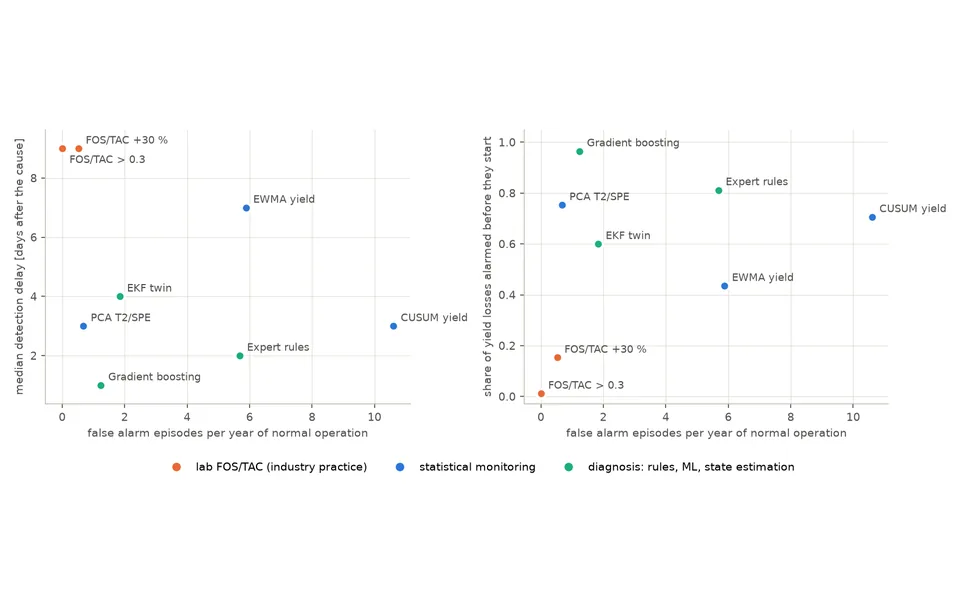
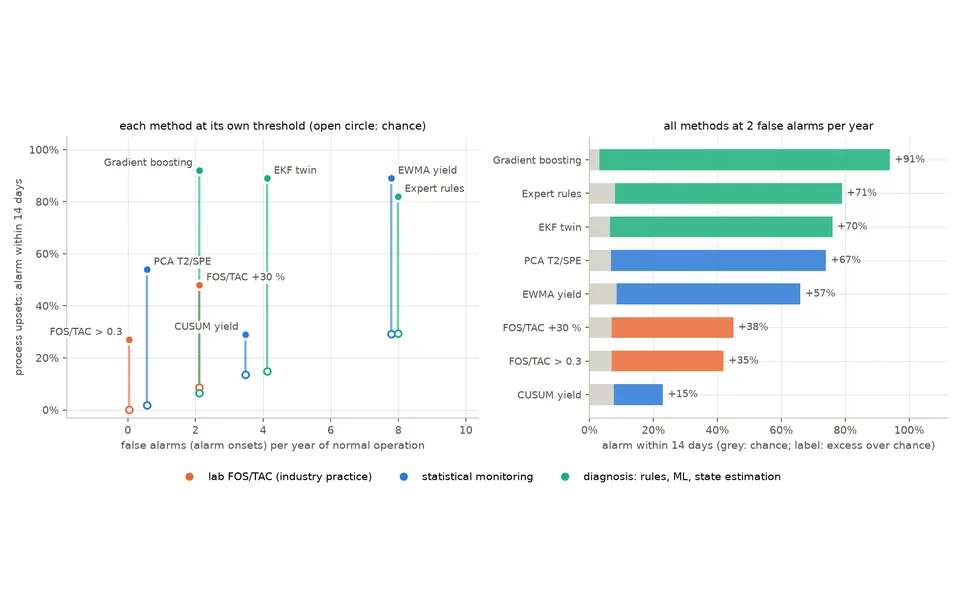
Update biogas twin card, add correction

diff --git a/corrections.html b/corrections.html
@@ -134,9 +134,9 @@ td + td { white-space: nowrap; }
     <h1>Corrections</h1>
     <p class="dek">Every project here is re-read from time to time by an independent reviewer who gets the code and the data, not the conclusions. When a headline number or a conclusion does not hold, it is corrected in the repository and listed below: what was claimed, what is claimed now and why. Results that only reproduced are not listed.</p>
   </header>
-  <section class="corr"><h2><a href="https://github.com/kwwaleszczynski-del/wind-wake-aware-verification">wind-wake-aware-verification</a><span class="when">16 Nov 2026</span></h2><dl><dt>Was</dt><dd>The method finds a derating to 95 % of rated power in 94 % of cases where the neighbour index finds 4 %, and a 3 % anemometer bias in 83 %; without the wake model detection drops.</dd><dt>Now</dt><dd>With a full-load chart for every method and thresholds at one false-alarm rate, the turbine&#x27;s own power curve is the better full-load detector (derating 100 % in 6 days against 96 % in 31 days). The method&#x27;s distinct result is the anemometer bias in either direction (90 % against a chance of 12 %). The wake model&#x27;s gain is confined to partial load.</dd><dt>Why</dt><dd>The baselines had no full-load chart, so they could not see a derating by construction, and thresholds set at the calibration-year maximum gave the methods different false-alarm rates; the gap without the wake model was a threshold artefact.</dd></dl></section><section class="corr"><h2><a href="https://github.com/kwwaleszczynski-del/pv-anomaly-autoencoder">pv-anomaly-autoencoder</a><span class="when">16 Nov 2026</span></h2><dl><dt>Was</dt><dd>The autoencoder detects 17 of 20 injected fault events.</dd><dt>Now</dt><dd>15 of the 17 events that change the output at all, when at least half of an event&#x27;s affected daylight steps must raise an alarm (1.6 by chance); the baselines detect 5-7. Over five other seeds: 37 of 81 against 4.7 by chance. Average precision 0.91 against 0.60-0.77.</dd><dt>Why</dt><dd>One alarmed step anywhere in an event counted as a detection, which alarms shifted in time by whole days reach for 6.5-9.7 events; three injected events never affect the output, and the thresholds had different false-positive rates on the test period.</dd></dl></section><section class="corr"><h2><a href="https://github.com/kwwaleszczynski-del/wind-bayes-twin">wind-bayes-twin</a><span class="when">16 Nov 2026</span></h2><dl><dt>Was</dt><dd>The twin&#x27;s first alarm names the right cause in 95 % of detections against 72 % for the charts; nothing was tuned on the test years.</dd><dt>Now</dt><dd>Of all 624 faults the twin names 84 % and the charts 70 %. The advantage is confined to telling an efficiency loss from a derating: without the efficiency-loss scenarios the two are level (91 % against 86 %, and 92 % against 91 % at matched false-alarm rates). Detection and the false-alarm rate (0.50 against 2.08 per turbine-year) stand. All validation numbers are upper bounds.</dd><dt>Why</dt><dd>The charts&#x27; full-load chart was mapped to derating, so one mapping produced most of the gap. Several design choices were revised after looking at 2019-2020 results, and the injected faults are near-exact shifts of the statistics the twin models.</dd></dl></section><section class="corr"><h2><a href="https://github.com/kwwaleszczynski-del/wind-thermal-nbm">wind-thermal-nbm</a><span class="when">16 Nov 2026</span></h2><dl><dt>Was</dt><dd>The RC parameters give a health trend the black box does not: the rear generator bearing&#x27;s rise at rated power grows from 16.5 to 25.4 K on one turbine. On the CARE benchmark the temperature models are precise but miss faults no thermometer can see.</dd><dt>Now</dt><dd>The trend was a fit artefact: with the time constant, intercept and cooling mixture held at the first year&#x27;s fit, the yearly rise follows the measured rise at rated power (median gap 0.1-0.6 K). On CARE the models detect nothing beyond chance (as many fault datasets flagged as with circularly shifted alarms). Detection of a +2 °C drift now has intervals: 76 % [71-81] for the RC model to 91 % [87-94] for gradient boosting with the fleet median.</dd><dt>Why</dt><dd>Refitting every parameter each year let the temperature rise trade off against the time constant (0.9-1.9 h, then 3.2 h in 2021). The CARE detections had not been compared with a placebo, and the alarm design was settled with the test years in view.</dd></dl></section><section class="corr"><h2><a href="https://github.com/kwwaleszczynski-del/bess-ops-warranty">bess-ops-warranty</a><span class="when">16 Nov 2026</span></h2><dl><dt>Was</dt><dd>Median round-trip efficiency 0.82 across 55 NEM batteries; a window whose one-way efficiency could not be determined used a constant and passed.</dd><dt>Now</dt><dd>0.825 for the 52 batteries with an RTE; three have no RTE for the year and are listed as no data. A window that cannot be assessed is reported with its reason and counted next to the damages, not as a window without damages. One validation series moved from 0.736 to 0.723.</dd><dt>Why</dt><dd>The yearly RTE had counted the energy of months whose change of stored energy was unknown and taken that change as zero, and an undetermined efficiency had been replaced by 0.95.</dd></dl></section><section class="corr"><h2><a href="https://github.com/kwwaleszczynski-del/pv-outage-classifier">pv-outage-classifier</a><span class="when">16 Nov 2026</span></h2><dl><dt>Was</dt><dd>The hybrid detector has the highest recall (0.86) and the expected model the best F1 (0.80); all real outages on the PVDAQ roofs are found; fleet availability 98.3-99.0 %.</dd><dt>Now</dt><dd>Much of the recall is coincidence: the hybrid&#x27;s alarms shifted in time by whole days still find 40 % of the events. By excess recall Hampel, the isolation forest, the expected model and the hybrid are level (0.46-0.52), and the order changes under a stricter rule. Soiling is barely detected (8 % of episodes half covered). Availability in 2016 is 98.3 %, 95.8 % or 91.4 % depending on how gaps in the inverter data are counted.</dd><dt>Why</dt><dd>One alarm anywhere inside an event that lasts weeks counted as a detection, and the real outages are defined by the same zero-output rule the threshold detector uses. Outages that continued as data gaps were taken out of the availability denominator. The site set-up is now tuned on 2016 and reported on 2017-2018.</dd></dl></section><section class="corr"><h2><a href="https://github.com/kwwaleszczynski-del/pv-thermal-check">pv-thermal-check</a><span class="when">16 Nov 2026</span></h2><dl><dt>Was</dt><dd>The cells run 19 K above the back-of-module sensor, the signature of a loose sensor; injected sensor faults are found on all 40 start dates; corrected PR leaves a winter dip explained by shading and an autumn decline by soiling.</dd><dt>Now</dt><dd>The gap is 15-20 K depending on the calibration and rests on one 12-day open-circuit window; a loose sensor is one explanation among others. With no fault injected, 20 % of the start dates already count as detected, so detection is reported on the 32 clean start dates. The residual PR pattern depends on the irradiance scaling and is not attributed to a cause. Annual temperature loss 10.9 % (was 10.5-10.8 %), Poland 3.5-4.5 % (was 3.2-4.2 %).</dd><dt>Why</dt><dd>The clean record has an alarm of its own inside the detection horizon of 8 start dates; the seasonal residual changes sign between one irradiance scale factor and month-specific factors; and the cell model had used the STC efficiency instead of the measured operating efficiency.</dd></dl></section><section class="corr"><h2><a href="https://github.com/kwwaleszczynski-del/wind-om-reliability">wind-om-reliability</a><span class="when">15 Nov 2026</span></h2><dl><dt>Was</dt><dd>Crow-AMSAA separates an improving fleet (Kelmarsh, beta 0.82) from a deteriorating one (Penmanshiel, beta 1.12); Hill of Towie improves to 4-5 failures per turbine-year.</dd><dt>Now</dt><dd>Kelmarsh still improves (beta 0.81, 0.76-0.91). Penmanshiel shows no clear trend (0.95, 0.89-1.01). The Hill of Towie trend is not assessed.</dd><dt>Why</dt><dd>The Penmanshiel figure came from repeating alarms on three turbines and an interval that assumed independent events; the trend is now fitted on repeat chains with a turbine bootstrap. The Hill of Towie code dictionary was built from one year, so other years were not comparable. Failure counts are now published with their sensitivity to the counting rule (Kelmarsh 3.6-8.2, Penmanshiel 10.8-19.3 per turbine-year).</dd></dl></section><section class="corr"><h2><a href="https://github.com/kwwaleszczynski-del/pl-bess-paper-trading">pl-bess-paper-trading</a><span class="when">15 Nov 2026</span></h2><dl><dt>Was</dt><dd>A battery that trades on paper every day; scheduled runs start 30-60 minutes late and one day has no plan.</dd><dt>Now</dt><dd>Of the first 20 live days 6 have a plan and 14 do not; the model earned 11.7 % of perfect foresight over all days and 52 % on the days it traded. The live record is too short for conclusions.</dd><dt>Why</dt><dd>GitHub started the scheduled runs 6-10 hours late, after the market gate, so most mornings made no plan; the plans that exist were started by an external trigger. The ledger itself was checked and is append-only: no plan was made after prices were known.</dd></dl></section><section class="corr"><h2><a href="https://github.com/kwwaleszczynski-del/pl-capture-price">pl-capture-price</a><span class="when">15 Nov 2026</span></h2><dl><dt>Was</dt><dd>Every 10 pp of PV share costs PV about 0.20 of value factor; a PV build-out scenario of 0.58 (+20 %) and 0.49 (+50 %), backed by a hindcast.</dd><dt>Now</dt><dd>The within-month slope is -1.69 with a standard error of 1.12, not significant; the scenario gives 0.59 (0.52-0.66) and 0.51 (0.35-0.68). No simple model beats repeating last year&#x27;s value (MAE 0.080 against 0.081). RCE is described as PSE&#x27;s reference price, not the SDAC price.</dd><dt>Why</dt><dd>The pooled slope was mostly seasonal, and the hindcast had been fitted with months after the target. The 2025 capture rates (PV 0.64, wind 0.94) did not change.</dd></dl></section><section class="corr"><h2><a href="https://github.com/kwwaleszczynski-del/pl-res-curtailment">pl-res-curtailment</a><span class="when">15 Nov 2026</span></h2><dl><dt>Was</dt><dd>Announced PV curtailment before the reports API: 520 GWh, covering 91 % of the regulator&#x27;s figure for 2024.</dd><dt>Now</dt><dd>517.3 GWh, equal to 90 % of the regulator&#x27;s figure; the announcement volumes are stated as announced orders, 63 % of them published before the hour began.</dd><dt>Why</dt><dd>24 September 2024 was counted in both sources, and ordered power is not a subset of the energy the regulator reports. Annual totals from the reports API did not change.</dd></dl></section><section class="corr"><h2><a href="https://github.com/kwwaleszczynski-del/pse-opendata">pse-opendata</a><span class="when">15 Nov 2026</span></h2><dl><dt>Was</dt><dd>Cross-border flow report documented as one signed row per border.</dd><dt>Now</dt><dd>Two directional rows per border (import and export components), with a helper that nets them; an optional check re-downloads a cached month that PSE republished later (version 0.2.1).</dd><dt>Why</dt><dd>Reading one row as the net flow gave +85 MW instead of -613 MW for the Czech border in one test week. A month cached before a late republication was served as final.</dd></dl></section><section class="corr"><h2><a href="https://github.com/kwwaleszczynski-del/res-asset-kpi">res-asset-kpi</a><span class="when">12 Nov 2026</span></h2><dl><dt>Was</dt><dd>KPI functions accepted records with gaps and returned a number.</dd><dt>Now</dt><dd>A window with missing meter data has no round-trip efficiency instead of a low one, missing expected power gives no energy availability instead of zero loss, partial sums are not reported as full intervals, and constants standing in for missing information raise a warning (versions 0.1.1 and 0.1.2).</dd><dt>Why</dt><dd>Missing data were silently counted as zeros: one missing discharge hour moved a daily RTE from 0.64 to 0.48 with the result still marked valid.</dd></dl></section><section class="corr"><h2><a href="https://github.com/kwwaleszczynski-del/wind-downtime-availability">wind-downtime-availability</a><span class="when">12 Nov 2026</span></h2><dl><dt>Was</dt><dd>The category a stop is booked under moves warranty availability more than detecting the stop does: 97.9 % becomes 93.5 %.</dd><dt>Now</dt><dd>One mis-booked farm-wide stop can outweigh all detection error: 4.1 of those 4.4 pp are a single 15-day park-controller stop. Without it the scenario costs 0.3 pp, about the size of the detection error.</dd><dt>Why</dt><dd>The headline rested on one event of one farm-year. Cause classification is also reported by stop time now (rules right for 21 % and 68 %), and at one farm it makes availability worse than no classification.</dd></dl></section><section class="corr"><h2><a href="https://github.com/kwwaleszczynski-del/bess-ops-warranty">bess-ops-warranty</a><span class="when">12 Nov 2026</span></h2><dl><dt>Was</dt><dd>Batteries are technically available (95.8 %) but commercially much less is offered (78.1 %).</dd><dt>Now</dt><dd>For the median battery only 3.2 % of the registered power is declared and not offered; five of 38 batteries hold back a third or more. The 95.8 % is an upper bound (capability within 24 hours&#x27; notice).</dd><dt>Why</dt><dd>The gap counted every interval in which an empty battery offered less; with more than 10 % of the energy stored, offered availability is 94.1 %.</dd></dl></section><section class="corr"><h2><a href="https://github.com/kwwaleszczynski-del/pl-forecast-bench">pl-forecast-bench</a><span class="when">12 Nov 2026</span></h2><dl><dt>Was</dt><dd>Intraday models beat the PSE plan by 20-26 %.</dd><dt>Now</dt><dd>Intraday models beat PSE&#x27;s day-ahead plan by 10-26 %, and by 10-21 % against the plan rescaled for its bias; day-ahead intervals are wider than published.</dd><dt>Why</dt><dd>Part of the plan&#x27;s error is curtailment and a systematic over-forecast (wind +225 MW on average, +1,300 MW at prices at or below zero), and the bootstrap had treated days as independent.</dd></dl></section><section class="corr"><h2><a href="https://github.com/kwwaleszczynski-del/wind-les-gpu">wind-les-gpu</a><span class="when">12 Nov 2026</span></h2><dl><dt>Was</dt><dd>The LES reproduces the measured farm wake loss (9.8 % against 9.2 %) and the deep-wake sectors, with the lowest error of four models.</dd><dt>Now</dt><dd>The pooled loss matches as closely as the Gaussian model; split by wind speed and turbulence, part of the match is averaging (3 pp low in the most frequent sector at 5-8 m/s, high at 8-10 m/s). The ranking claim is dropped.</dd><dt>Why</dt><dd>One speed ratio was applied to all 5-10 m/s records, and the 0.6 pp gap sits inside the uncertainty of how the measured loss is defined.</dd></dl></section><section class="corr"><h2><a href="https://github.com/kwwaleszczynski-del/pv-budget-bridge">pv-budget-bridge</a><span class="when">12 Nov 2026</span></h2><dl><dt>Was</dt><dd>Outage and curtailment losses come back within 0.5 % of a known truth; PR 0.63-0.67 on the real rooftops.</dd><dt>Now</dt><dd>A 3-day outage injected into real and synthetic plants comes back within 1 %, a curtailment that binds within 3-7 %; the 0.5 % on the synthetic plant is labelled a best case. PR 0.65-0.68 on intervals with complete data.</dd><dt>Why</dt><dd>The synthetic truth followed the estimator&#x27;s own bookkeeping, an outage under a partial set-point was over-charged to availability, and the summary PR counted data gaps as zero production.</dd></dl></section><section class="corr"><h2><a href="https://github.com/kwwaleszczynski-del/scada-fault-bench">scada-fault-bench</a><span class="when">12 Nov 2026</span></h2><dl><dt>Was</dt><dd>Best F1 0.40 on wind and 0.53 on PV; recall 0.08-0.75 on 12 real faults.</dd><dt>Now</dt><dd>Every method detects more than chance on injected faults, but much of the raw recall is coincidence (a z-score reaches 0.91 on wind with 0.68 by chance). Best excess recall 0.42 on wind and 0.37 on PV; on the 12 real faults no method is distinguishable from chance.</dd><dt>Why</dt><dd>An alarm anywhere in a one-to-three-week window counted as a detection. Detection now requires an alarm on affected rows and is reported next to a placebo.</dd></dl></section><section class="corr"><h2><a href="https://github.com/kwwaleszczynski-del/bess-reporting-kit">bess-reporting-kit</a><span class="when">12 Nov 2026</span></h2><dl><dt>Was</dt><dd>A 200 MW battery earned 122 % of its as-of benchmark; at fleet scale the revenue stack stays above day-ahead arbitrage.</dd><dt>Now</dt><dd>The battery earned 99 % of a benchmark that has its own limits; at 2,000 MW the stack keeps 10-21 % of the lone battery&#x27;s margin and crosses day-ahead arbitrage on the lower bound.</dd><dt>Why</dt><dd>The benchmark battery was smaller than the real one, and the fleet model was not a fixed point, so it is now given as two bounds.</dd></dl></section><section class="corr"><h2><a href="https://github.com/kwwaleszczynski-del/scada-schema">scada-schema</a><span class="when">12 Nov 2026</span></h2><dl><dt>Was</dt><dd>Loaders wrote the CARE benchmark&#x27;s power in kW and found the PVDAQ unit switch only when it fell inside the loaded period.</dd><dt>Now</dt><dd>CARE power is stored as a scaled, dimensionless signal; the PVDAQ unit is detected from the power level; La Haute Borne&#x27;s clock is reconstructed and 96 ambiguous rows are dropped (version 0.1.1).</dd><dt>Why</dt><dd>CARE power is normalised by the source, and a file that starts after the switch was read 100 times too high.</dd></dl></section>
+  <section class="corr"><h2><a href="https://github.com/kwwaleszczynski-del/biogas-digester-twin">biogas-digester-twin</a><span class="when">16 Nov 2026</span></h2><dl><dt>Was</dt><dd>CUSUM on the methane yield detects 100 % of process upsets, EWMA and the expert rules nearly as many; PCA on online signals warns before the yield loss in 75 % of upsets.</dd><dt>Now</dt><dd>Within 14 days and against chance: CUSUM 29 % (chance 14 %), EWMA 89 % (29 %), expert rules 82 % (29 %), PCA 54 % (2 %), gradient boosting 92 % (6 %), EKF twin 89 % (15 %). Early warning before a material loss exists for ammonia inhibition only; the other upsets are mild in this plant or lose yield from the first day.</dd><dt>Why</dt><dd>Any alarm start within 60 days of the cause counted as a detection with no chance level, while EWMA and the rules are in alarm on about 40 % of normal days and the CUSUM on 76 %. Test runs had shared one feed history, and harmless recipe changes had not overlapped the upset sizes.</dd></dl></section><section class="corr"><h2><a href="https://github.com/kwwaleszczynski-del/wind-wake-aware-verification">wind-wake-aware-verification</a><span class="when">16 Nov 2026</span></h2><dl><dt>Was</dt><dd>The method finds a derating to 95 % of rated power in 94 % of cases where the neighbour index finds 4 %, and a 3 % anemometer bias in 83 %; without the wake model detection drops.</dd><dt>Now</dt><dd>With a full-load chart for every method and thresholds at one false-alarm rate, the turbine&#x27;s own power curve is the better full-load detector (derating 100 % in 6 days against 96 % in 31 days). The method&#x27;s distinct result is the anemometer bias in either direction (90 % against a chance of 12 %). The wake model&#x27;s gain is confined to partial load.</dd><dt>Why</dt><dd>The baselines had no full-load chart, so they could not see a derating by construction, and thresholds set at the calibration-year maximum gave the methods different false-alarm rates; the gap without the wake model was a threshold artefact.</dd></dl></section><section class="corr"><h2><a href="https://github.com/kwwaleszczynski-del/pv-anomaly-autoencoder">pv-anomaly-autoencoder</a><span class="when">16 Nov 2026</span></h2><dl><dt>Was</dt><dd>The autoencoder detects 17 of 20 injected fault events.</dd><dt>Now</dt><dd>15 of the 17 events that change the output at all, when at least half of an event&#x27;s affected daylight steps must raise an alarm (1.6 by chance); the baselines detect 5-7. Over five other seeds: 37 of 81 against 4.7 by chance. Average precision 0.91 against 0.60-0.77.</dd><dt>Why</dt><dd>One alarmed step anywhere in an event counted as a detection, which alarms shifted in time by whole days reach for 6.5-9.7 events; three injected events never affect the output, and the thresholds had different false-positive rates on the test period.</dd></dl></section><section class="corr"><h2><a href="https://github.com/kwwaleszczynski-del/wind-bayes-twin">wind-bayes-twin</a><span class="when">16 Nov 2026</span></h2><dl><dt>Was</dt><dd>The twin&#x27;s first alarm names the right cause in 95 % of detections against 72 % for the charts; nothing was tuned on the test years.</dd><dt>Now</dt><dd>Of all 624 faults the twin names 84 % and the charts 70 %. The advantage is confined to telling an efficiency loss from a derating: without the efficiency-loss scenarios the two are level (91 % against 86 %, and 92 % against 91 % at matched false-alarm rates). Detection and the false-alarm rate (0.50 against 2.08 per turbine-year) stand. All validation numbers are upper bounds.</dd><dt>Why</dt><dd>The charts&#x27; full-load chart was mapped to derating, so one mapping produced most of the gap. Several design choices were revised after looking at 2019-2020 results, and the injected faults are near-exact shifts of the statistics the twin models.</dd></dl></section><section class="corr"><h2><a href="https://github.com/kwwaleszczynski-del/wind-thermal-nbm">wind-thermal-nbm</a><span class="when">16 Nov 2026</span></h2><dl><dt>Was</dt><dd>The RC parameters give a health trend the black box does not: the rear generator bearing&#x27;s rise at rated power grows from 16.5 to 25.4 K on one turbine. On the CARE benchmark the temperature models are precise but miss faults no thermometer can see.</dd><dt>Now</dt><dd>The trend was a fit artefact: with the time constant, intercept and cooling mixture held at the first year&#x27;s fit, the yearly rise follows the measured rise at rated power (median gap 0.1-0.6 K). On CARE the models detect nothing beyond chance (as many fault datasets flagged as with circularly shifted alarms). Detection of a +2 °C drift now has intervals: 76 % [71-81] for the RC model to 91 % [87-94] for gradient boosting with the fleet median.</dd><dt>Why</dt><dd>Refitting every parameter each year let the temperature rise trade off against the time constant (0.9-1.9 h, then 3.2 h in 2021). The CARE detections had not been compared with a placebo, and the alarm design was settled with the test years in view.</dd></dl></section><section class="corr"><h2><a href="https://github.com/kwwaleszczynski-del/bess-ops-warranty">bess-ops-warranty</a><span class="when">16 Nov 2026</span></h2><dl><dt>Was</dt><dd>Median round-trip efficiency 0.82 across 55 NEM batteries; a window whose one-way efficiency could not be determined used a constant and passed.</dd><dt>Now</dt><dd>0.825 for the 52 batteries with an RTE; three have no RTE for the year and are listed as no data. A window that cannot be assessed is reported with its reason and counted next to the damages, not as a window without damages. One validation series moved from 0.736 to 0.723.</dd><dt>Why</dt><dd>The yearly RTE had counted the energy of months whose change of stored energy was unknown and taken that change as zero, and an undetermined efficiency had been replaced by 0.95.</dd></dl></section><section class="corr"><h2><a href="https://github.com/kwwaleszczynski-del/pv-outage-classifier">pv-outage-classifier</a><span class="when">16 Nov 2026</span></h2><dl><dt>Was</dt><dd>The hybrid detector has the highest recall (0.86) and the expected model the best F1 (0.80); all real outages on the PVDAQ roofs are found; fleet availability 98.3-99.0 %.</dd><dt>Now</dt><dd>Much of the recall is coincidence: the hybrid&#x27;s alarms shifted in time by whole days still find 40 % of the events. By excess recall Hampel, the isolation forest, the expected model and the hybrid are level (0.46-0.52), and the order changes under a stricter rule. Soiling is barely detected (8 % of episodes half covered). Availability in 2016 is 98.3 %, 95.8 % or 91.4 % depending on how gaps in the inverter data are counted.</dd><dt>Why</dt><dd>One alarm anywhere inside an event that lasts weeks counted as a detection, and the real outages are defined by the same zero-output rule the threshold detector uses. Outages that continued as data gaps were taken out of the availability denominator. The site set-up is now tuned on 2016 and reported on 2017-2018.</dd></dl></section><section class="corr"><h2><a href="https://github.com/kwwaleszczynski-del/pv-thermal-check">pv-thermal-check</a><span class="when">16 Nov 2026</span></h2><dl><dt>Was</dt><dd>The cells run 19 K above the back-of-module sensor, the signature of a loose sensor; injected sensor faults are found on all 40 start dates; corrected PR leaves a winter dip explained by shading and an autumn decline by soiling.</dd><dt>Now</dt><dd>The gap is 15-20 K depending on the calibration and rests on one 12-day open-circuit window; a loose sensor is one explanation among others. With no fault injected, 20 % of the start dates already count as detected, so detection is reported on the 32 clean start dates. The residual PR pattern depends on the irradiance scaling and is not attributed to a cause. Annual temperature loss 10.9 % (was 10.5-10.8 %), Poland 3.5-4.5 % (was 3.2-4.2 %).</dd><dt>Why</dt><dd>The clean record has an alarm of its own inside the detection horizon of 8 start dates; the seasonal residual changes sign between one irradiance scale factor and month-specific factors; and the cell model had used the STC efficiency instead of the measured operating efficiency.</dd></dl></section><section class="corr"><h2><a href="https://github.com/kwwaleszczynski-del/wind-om-reliability">wind-om-reliability</a><span class="when">15 Nov 2026</span></h2><dl><dt>Was</dt><dd>Crow-AMSAA separates an improving fleet (Kelmarsh, beta 0.82) from a deteriorating one (Penmanshiel, beta 1.12); Hill of Towie improves to 4-5 failures per turbine-year.</dd><dt>Now</dt><dd>Kelmarsh still improves (beta 0.81, 0.76-0.91). Penmanshiel shows no clear trend (0.95, 0.89-1.01). The Hill of Towie trend is not assessed.</dd><dt>Why</dt><dd>The Penmanshiel figure came from repeating alarms on three turbines and an interval that assumed independent events; the trend is now fitted on repeat chains with a turbine bootstrap. The Hill of Towie code dictionary was built from one year, so other years were not comparable. Failure counts are now published with their sensitivity to the counting rule (Kelmarsh 3.6-8.2, Penmanshiel 10.8-19.3 per turbine-year).</dd></dl></section><section class="corr"><h2><a href="https://github.com/kwwaleszczynski-del/pl-bess-paper-trading">pl-bess-paper-trading</a><span class="when">15 Nov 2026</span></h2><dl><dt>Was</dt><dd>A battery that trades on paper every day; scheduled runs start 30-60 minutes late and one day has no plan.</dd><dt>Now</dt><dd>Of the first 20 live days 6 have a plan and 14 do not; the model earned 11.7 % of perfect foresight over all days and 52 % on the days it traded. The live record is too short for conclusions.</dd><dt>Why</dt><dd>GitHub started the scheduled runs 6-10 hours late, after the market gate, so most mornings made no plan; the plans that exist were started by an external trigger. The ledger itself was checked and is append-only: no plan was made after prices were known.</dd></dl></section><section class="corr"><h2><a href="https://github.com/kwwaleszczynski-del/pl-capture-price">pl-capture-price</a><span class="when">15 Nov 2026</span></h2><dl><dt>Was</dt><dd>Every 10 pp of PV share costs PV about 0.20 of value factor; a PV build-out scenario of 0.58 (+20 %) and 0.49 (+50 %), backed by a hindcast.</dd><dt>Now</dt><dd>The within-month slope is -1.69 with a standard error of 1.12, not significant; the scenario gives 0.59 (0.52-0.66) and 0.51 (0.35-0.68). No simple model beats repeating last year&#x27;s value (MAE 0.080 against 0.081). RCE is described as PSE&#x27;s reference price, not the SDAC price.</dd><dt>Why</dt><dd>The pooled slope was mostly seasonal, and the hindcast had been fitted with months after the target. The 2025 capture rates (PV 0.64, wind 0.94) did not change.</dd></dl></section><section class="corr"><h2><a href="https://github.com/kwwaleszczynski-del/pl-res-curtailment">pl-res-curtailment</a><span class="when">15 Nov 2026</span></h2><dl><dt>Was</dt><dd>Announced PV curtailment before the reports API: 520 GWh, covering 91 % of the regulator&#x27;s figure for 2024.</dd><dt>Now</dt><dd>517.3 GWh, equal to 90 % of the regulator&#x27;s figure; the announcement volumes are stated as announced orders, 63 % of them published before the hour began.</dd><dt>Why</dt><dd>24 September 2024 was counted in both sources, and ordered power is not a subset of the energy the regulator reports. Annual totals from the reports API did not change.</dd></dl></section><section class="corr"><h2><a href="https://github.com/kwwaleszczynski-del/pse-opendata">pse-opendata</a><span class="when">15 Nov 2026</span></h2><dl><dt>Was</dt><dd>Cross-border flow report documented as one signed row per border.</dd><dt>Now</dt><dd>Two directional rows per border (import and export components), with a helper that nets them; an optional check re-downloads a cached month that PSE republished later (version 0.2.1).</dd><dt>Why</dt><dd>Reading one row as the net flow gave +85 MW instead of -613 MW for the Czech border in one test week. A month cached before a late republication was served as final.</dd></dl></section><section class="corr"><h2><a href="https://github.com/kwwaleszczynski-del/res-asset-kpi">res-asset-kpi</a><span class="when">12 Nov 2026</span></h2><dl><dt>Was</dt><dd>KPI functions accepted records with gaps and returned a number.</dd><dt>Now</dt><dd>A window with missing meter data has no round-trip efficiency instead of a low one, missing expected power gives no energy availability instead of zero loss, partial sums are not reported as full intervals, and constants standing in for missing information raise a warning (versions 0.1.1 and 0.1.2).</dd><dt>Why</dt><dd>Missing data were silently counted as zeros: one missing discharge hour moved a daily RTE from 0.64 to 0.48 with the result still marked valid.</dd></dl></section><section class="corr"><h2><a href="https://github.com/kwwaleszczynski-del/wind-downtime-availability">wind-downtime-availability</a><span class="when">12 Nov 2026</span></h2><dl><dt>Was</dt><dd>The category a stop is booked under moves warranty availability more than detecting the stop does: 97.9 % becomes 93.5 %.</dd><dt>Now</dt><dd>One mis-booked farm-wide stop can outweigh all detection error: 4.1 of those 4.4 pp are a single 15-day park-controller stop. Without it the scenario costs 0.3 pp, about the size of the detection error.</dd><dt>Why</dt><dd>The headline rested on one event of one farm-year. Cause classification is also reported by stop time now (rules right for 21 % and 68 %), and at one farm it makes availability worse than no classification.</dd></dl></section><section class="corr"><h2><a href="https://github.com/kwwaleszczynski-del/bess-ops-warranty">bess-ops-warranty</a><span class="when">12 Nov 2026</span></h2><dl><dt>Was</dt><dd>Batteries are technically available (95.8 %) but commercially much less is offered (78.1 %).</dd><dt>Now</dt><dd>For the median battery only 3.2 % of the registered power is declared and not offered; five of 38 batteries hold back a third or more. The 95.8 % is an upper bound (capability within 24 hours&#x27; notice).</dd><dt>Why</dt><dd>The gap counted every interval in which an empty battery offered less; with more than 10 % of the energy stored, offered availability is 94.1 %.</dd></dl></section><section class="corr"><h2><a href="https://github.com/kwwaleszczynski-del/pl-forecast-bench">pl-forecast-bench</a><span class="when">12 Nov 2026</span></h2><dl><dt>Was</dt><dd>Intraday models beat the PSE plan by 20-26 %.</dd><dt>Now</dt><dd>Intraday models beat PSE&#x27;s day-ahead plan by 10-26 %, and by 10-21 % against the plan rescaled for its bias; day-ahead intervals are wider than published.</dd><dt>Why</dt><dd>Part of the plan&#x27;s error is curtailment and a systematic over-forecast (wind +225 MW on average, +1,300 MW at prices at or below zero), and the bootstrap had treated days as independent.</dd></dl></section><section class="corr"><h2><a href="https://github.com/kwwaleszczynski-del/wind-les-gpu">wind-les-gpu</a><span class="when">12 Nov 2026</span></h2><dl><dt>Was</dt><dd>The LES reproduces the measured farm wake loss (9.8 % against 9.2 %) and the deep-wake sectors, with the lowest error of four models.</dd><dt>Now</dt><dd>The pooled loss matches as closely as the Gaussian model; split by wind speed and turbulence, part of the match is averaging (3 pp low in the most frequent sector at 5-8 m/s, high at 8-10 m/s). The ranking claim is dropped.</dd><dt>Why</dt><dd>One speed ratio was applied to all 5-10 m/s records, and the 0.6 pp gap sits inside the uncertainty of how the measured loss is defined.</dd></dl></section><section class="corr"><h2><a href="https://github.com/kwwaleszczynski-del/pv-budget-bridge">pv-budget-bridge</a><span class="when">12 Nov 2026</span></h2><dl><dt>Was</dt><dd>Outage and curtailment losses come back within 0.5 % of a known truth; PR 0.63-0.67 on the real rooftops.</dd><dt>Now</dt><dd>A 3-day outage injected into real and synthetic plants comes back within 1 %, a curtailment that binds within 3-7 %; the 0.5 % on the synthetic plant is labelled a best case. PR 0.65-0.68 on intervals with complete data.</dd><dt>Why</dt><dd>The synthetic truth followed the estimator&#x27;s own bookkeeping, an outage under a partial set-point was over-charged to availability, and the summary PR counted data gaps as zero production.</dd></dl></section><section class="corr"><h2><a href="https://github.com/kwwaleszczynski-del/scada-fault-bench">scada-fault-bench</a><span class="when">12 Nov 2026</span></h2><dl><dt>Was</dt><dd>Best F1 0.40 on wind and 0.53 on PV; recall 0.08-0.75 on 12 real faults.</dd><dt>Now</dt><dd>Every method detects more than chance on injected faults, but much of the raw recall is coincidence (a z-score reaches 0.91 on wind with 0.68 by chance). Best excess recall 0.42 on wind and 0.37 on PV; on the 12 real faults no method is distinguishable from chance.</dd><dt>Why</dt><dd>An alarm anywhere in a one-to-three-week window counted as a detection. Detection now requires an alarm on affected rows and is reported next to a placebo.</dd></dl></section><section class="corr"><h2><a href="https://github.com/kwwaleszczynski-del/bess-reporting-kit">bess-reporting-kit</a><span class="when">12 Nov 2026</span></h2><dl><dt>Was</dt><dd>A 200 MW battery earned 122 % of its as-of benchmark; at fleet scale the revenue stack stays above day-ahead arbitrage.</dd><dt>Now</dt><dd>The battery earned 99 % of a benchmark that has its own limits; at 2,000 MW the stack keeps 10-21 % of the lone battery&#x27;s margin and crosses day-ahead arbitrage on the lower bound.</dd><dt>Why</dt><dd>The benchmark battery was smaller than the real one, and the fleet model was not a fixed point, so it is now given as two bounds.</dd></dl></section><section class="corr"><h2><a href="https://github.com/kwwaleszczynski-del/scada-schema">scada-schema</a><span class="when">12 Nov 2026</span></h2><dl><dt>Was</dt><dd>Loaders wrote the CARE benchmark&#x27;s power in kW and found the PVDAQ unit switch only when it fell inside the loaded period.</dd><dt>Now</dt><dd>CARE power is stored as a scaled, dimensionless signal; the PVDAQ unit is detected from the power level; La Haute Borne&#x27;s clock is reconstructed and 96 ambiguous rows are dropped (version 0.1.1).</dd><dt>Why</dt><dd>CARE power is normalised by the source, and a file that starts after the switch was read 100 times too high.</dd></dl></section>
   <footer>
-    <p>21 corrections. Updated 16 Nov 2026.</p>
+    <p>22 corrections. Updated 16 Nov 2026.</p>
   </footer>
 </div>
 </body>

diff --git a/index.html b/index.html
@@ -616,7 +616,7 @@ td + td { white-space: nowrap; }
         <div class="meta"><span class="group g-biogas">Biogas</span></div>
         <h3><a href="https://github.com/kwwaleszczynski-del/biogas-digester-twin">Which method catches a sick digester first?</a></h3>
         <p class="summary">An ADM1 (BSM2) twin of an agricultural co-digestion plant with realistic sensors and lab samples, 140 injected process upsets and instrument faults, and eight ways to catch them: FOS/TAC thresholds, EWMA and CUSUM on yield, PCA, expert rules, gradient boosting and an EKF twin, plus a check on real farm digesters.</p>
-        <p class="highlight">Twice-weekly FOS/TAC warns before the yield loss in 1 % of upsets; PCA on online signals does it in 75 % with 0.7 false alarms a year, and the EKF twin names all 20 CH4 analyser drifts as instrument faults without any failure examples.</p>
+        <p class="highlight">Scored against chance, the yield charts are mostly alarm habit: a CUSUM in alarm on 76 % of normal days detects 29 % of upsets against 14 % by chance. Gradient boosting detects 92 % within 14 days (chance 6 %) and the EKF twin 89 % (chance 15 %); early warning pays for one upset type, ammonia inhibition, which gradient boosting flags a median 7 days before the loss.</p>
         <ul class="tags"><li>ADM1</li><li>state estimation</li><li>fault detection</li></ul>
         <div class="links"><a class="btn" href="https://github.com/kwwaleszczynski-del/biogas-digester-twin">Code</a><a class="btn primary" href="https://kwwaleszczynski-del.github.io/biogas-digester-twin/">Live page &#8599;</a></div>
       </div>
